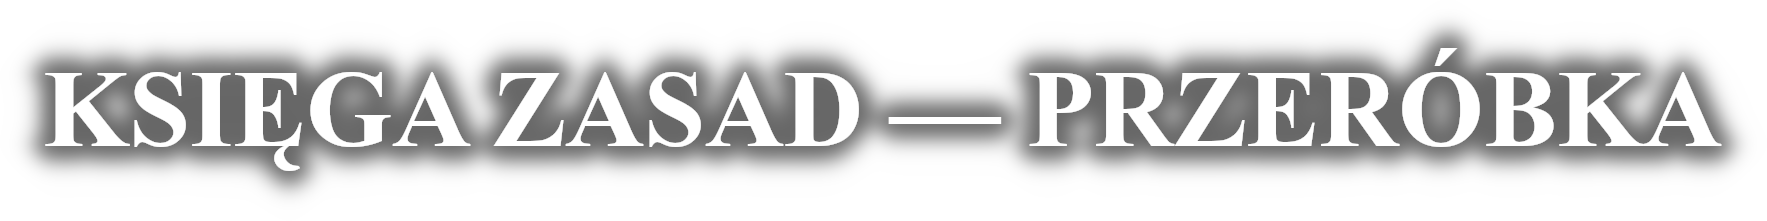
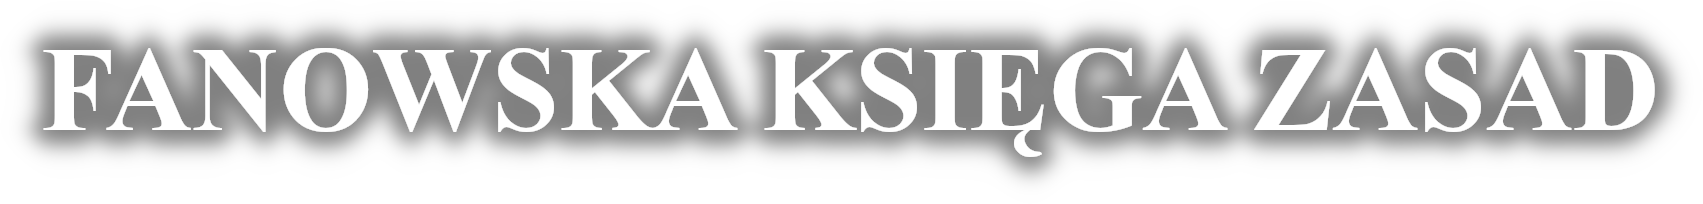
Update title

diff --git a/main_pl.tex b/main_pl.tex
@@ -19,6 +19,6 @@
 }
 \newcommand{\pageshorthand}{s. }
 
-\title{\includegraphics[width=6cm]{\images/title.png}\\Przeróbka}
+\title{\includegraphics[width=6cm]{\images/title.png}\\Przepisanie}
 
 \input{metadata.tex}
